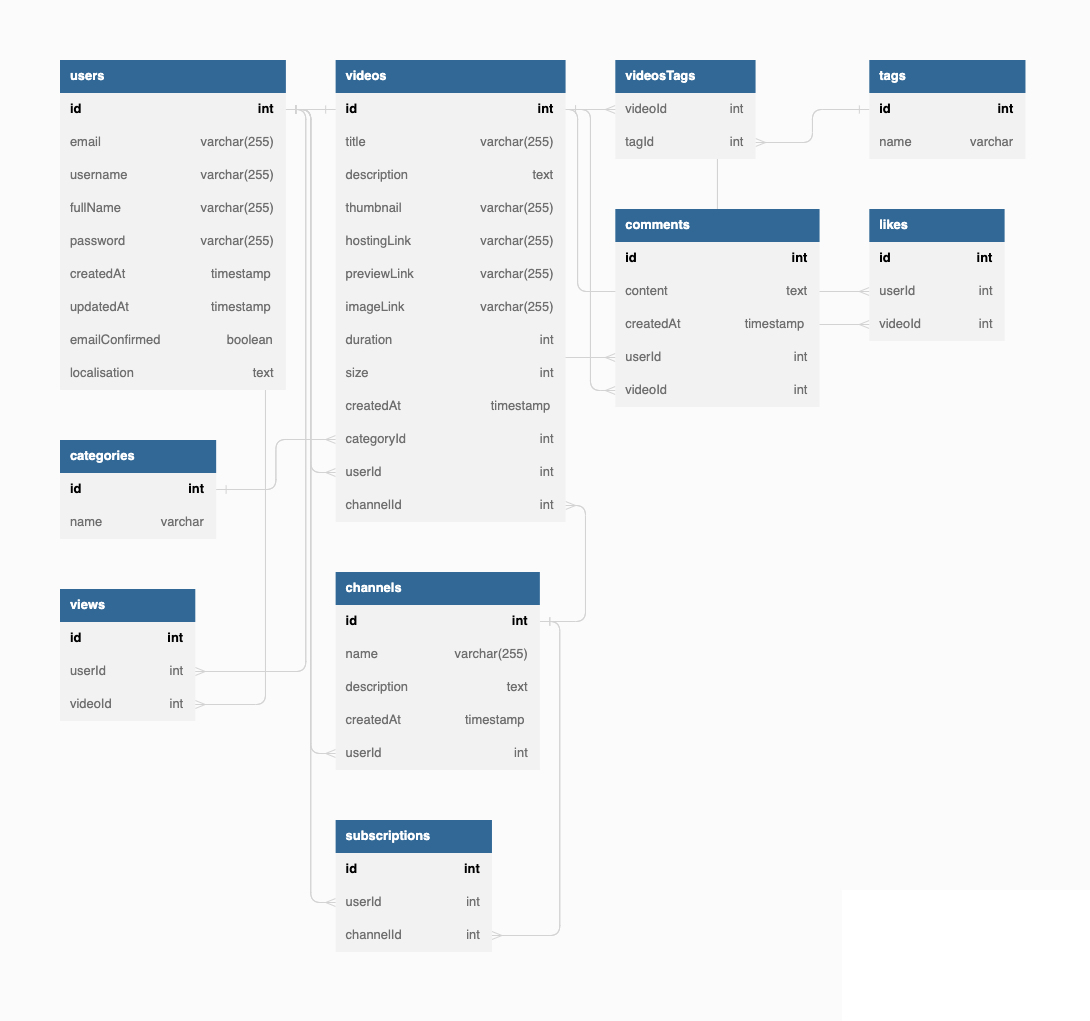
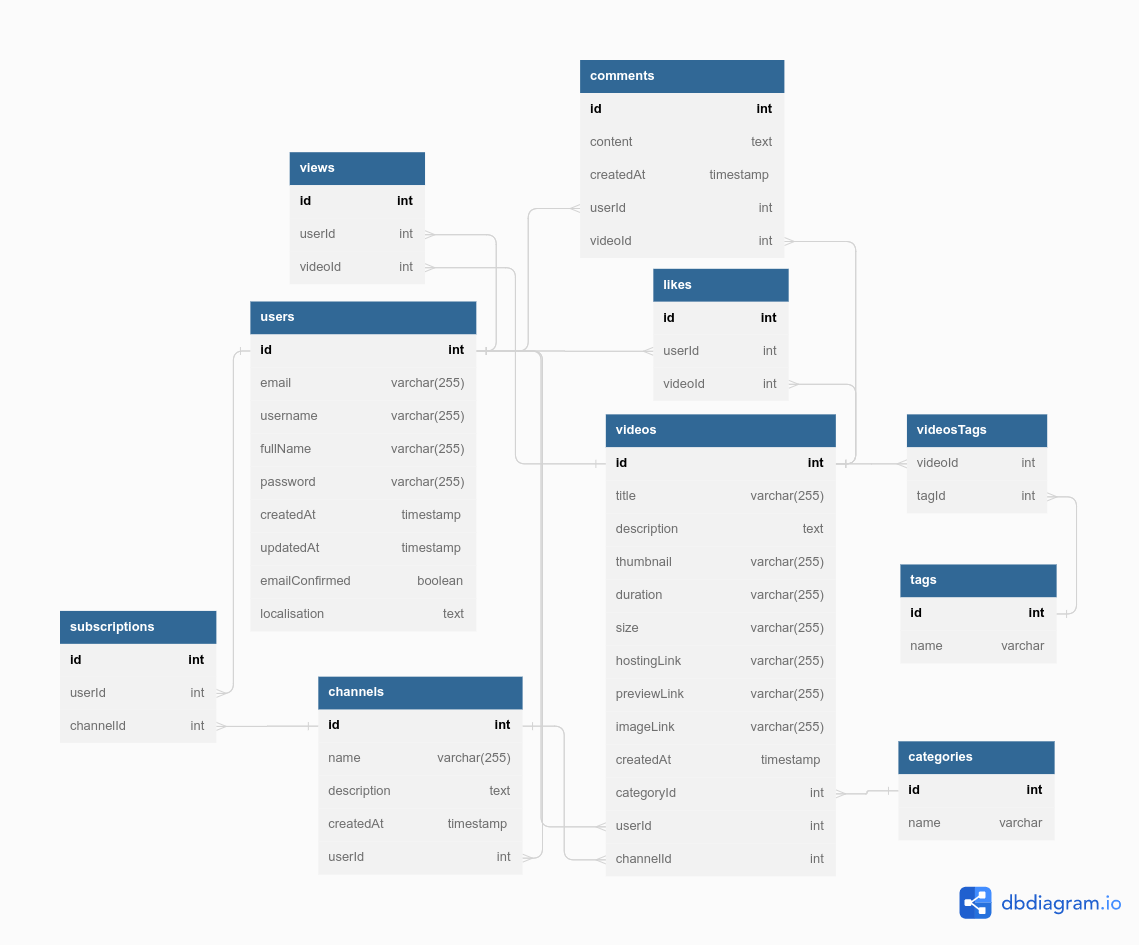
Add database schema to explanation

diff --git a/README.md b/README.md
@@ -60,3 +60,8 @@ A list of dependencies for this project:
  - Metrics monitoring - Prometheus
  - Logs aggregation - Loki
  - Data visualisation and log querying - Grafana
+
+
+## Database Schema
+
+![Database](./database/db%20highload.png)
